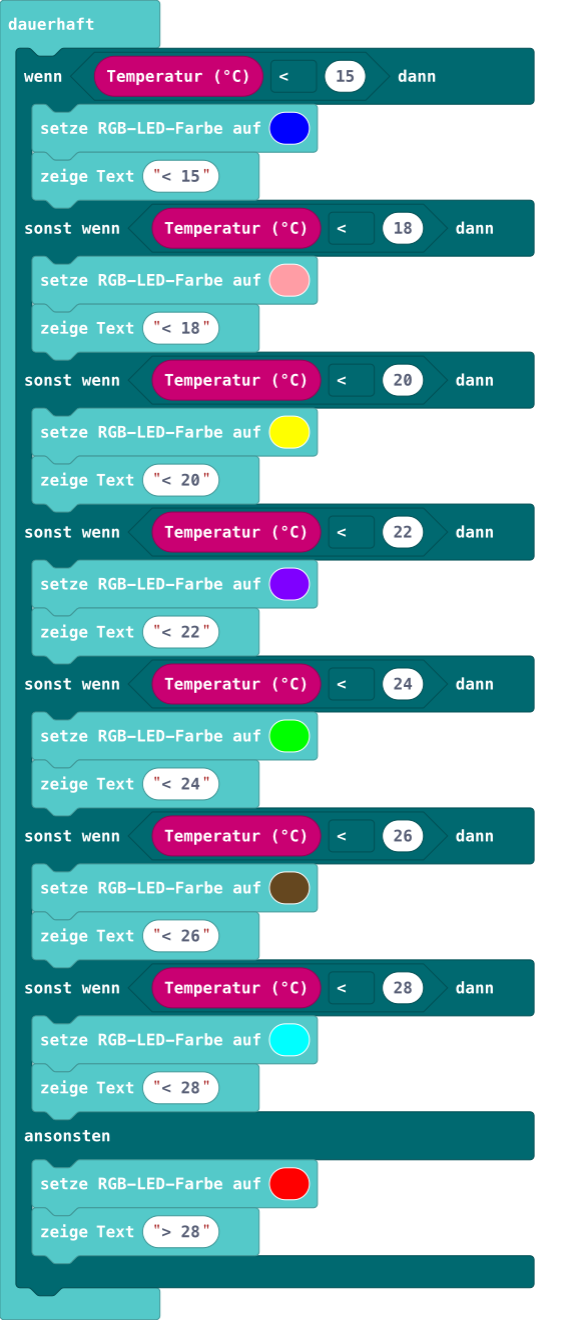
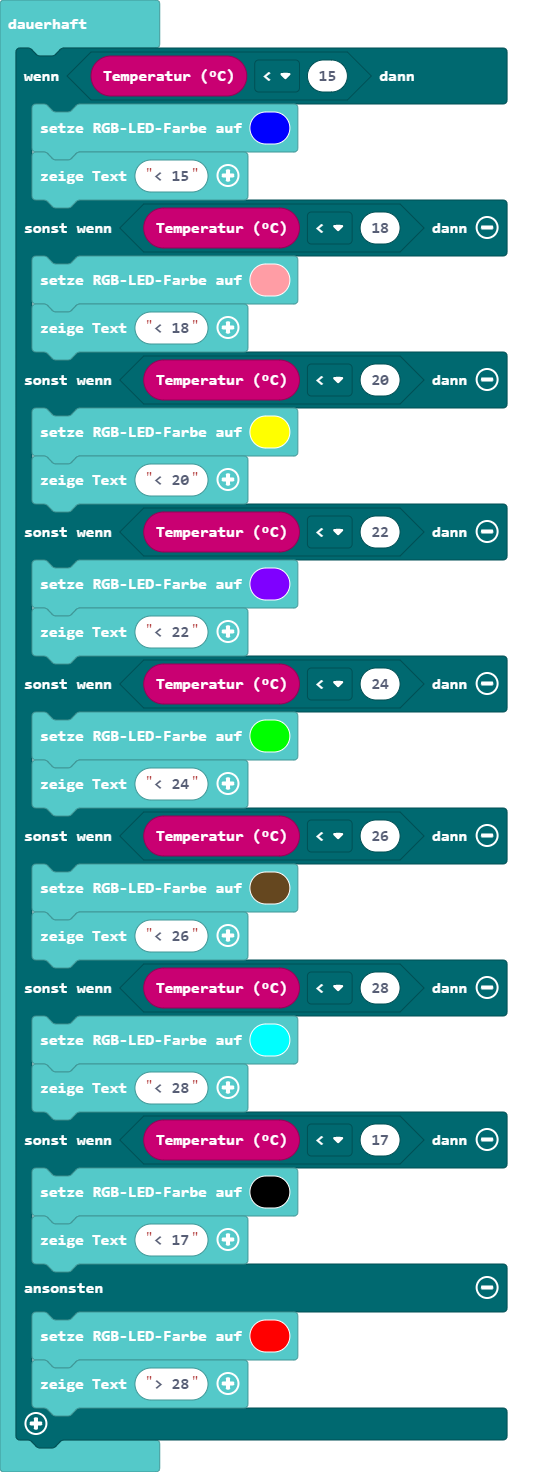
Abfrage 17°C wurde eingefügt

diff --git a/main.ts b/main.ts
@@ -20,6 +20,9 @@ basic.forever(function () {
     } else if (input.temperature() < 28) {
         basic.setLedColor(0x00ffff)
         basic.showString("< 28")
+    } else if (input.temperature() < 17) {
+        basic.setLedColor(0x000000)
+        basic.showString("< 17")
     } else {
         basic.setLedColor(0xff0000)
         basic.showString("> 28")
